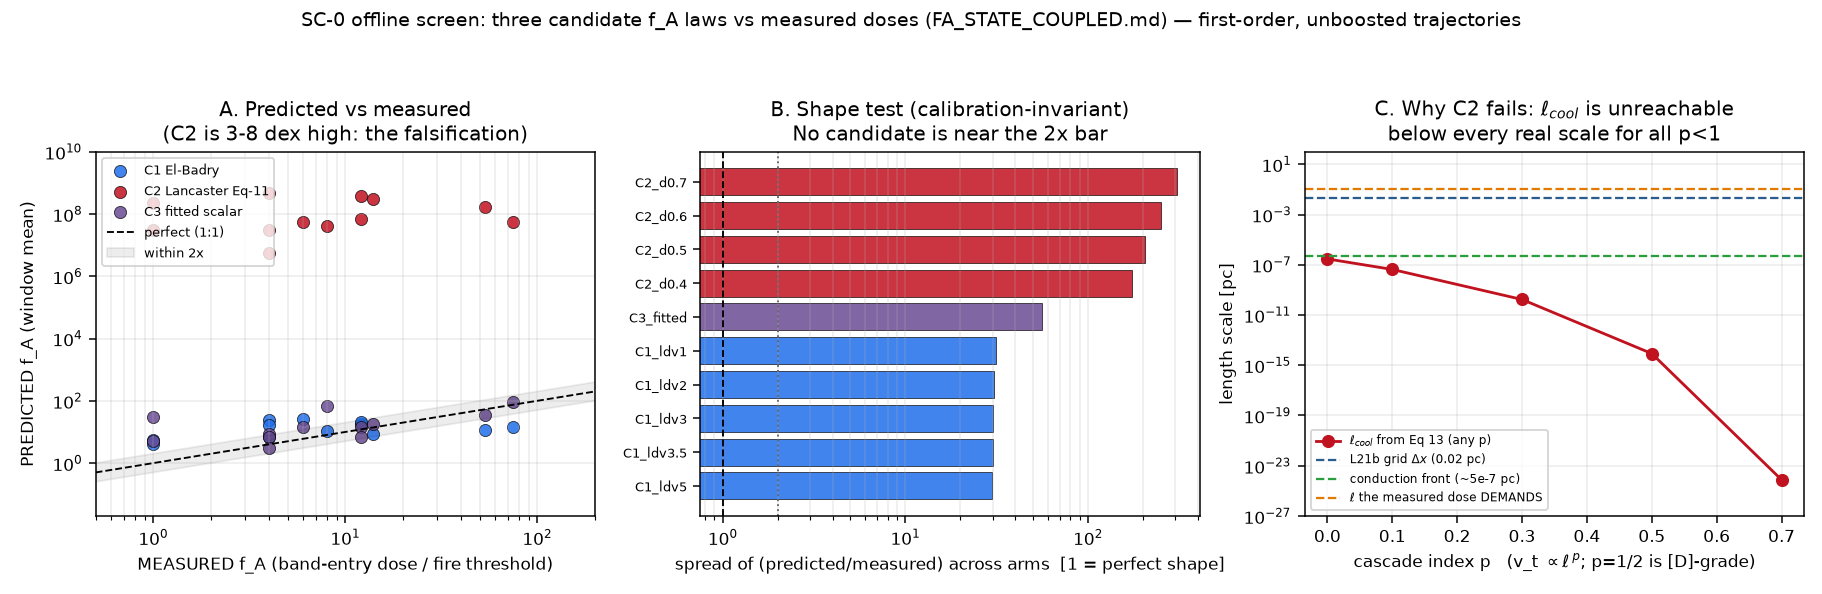
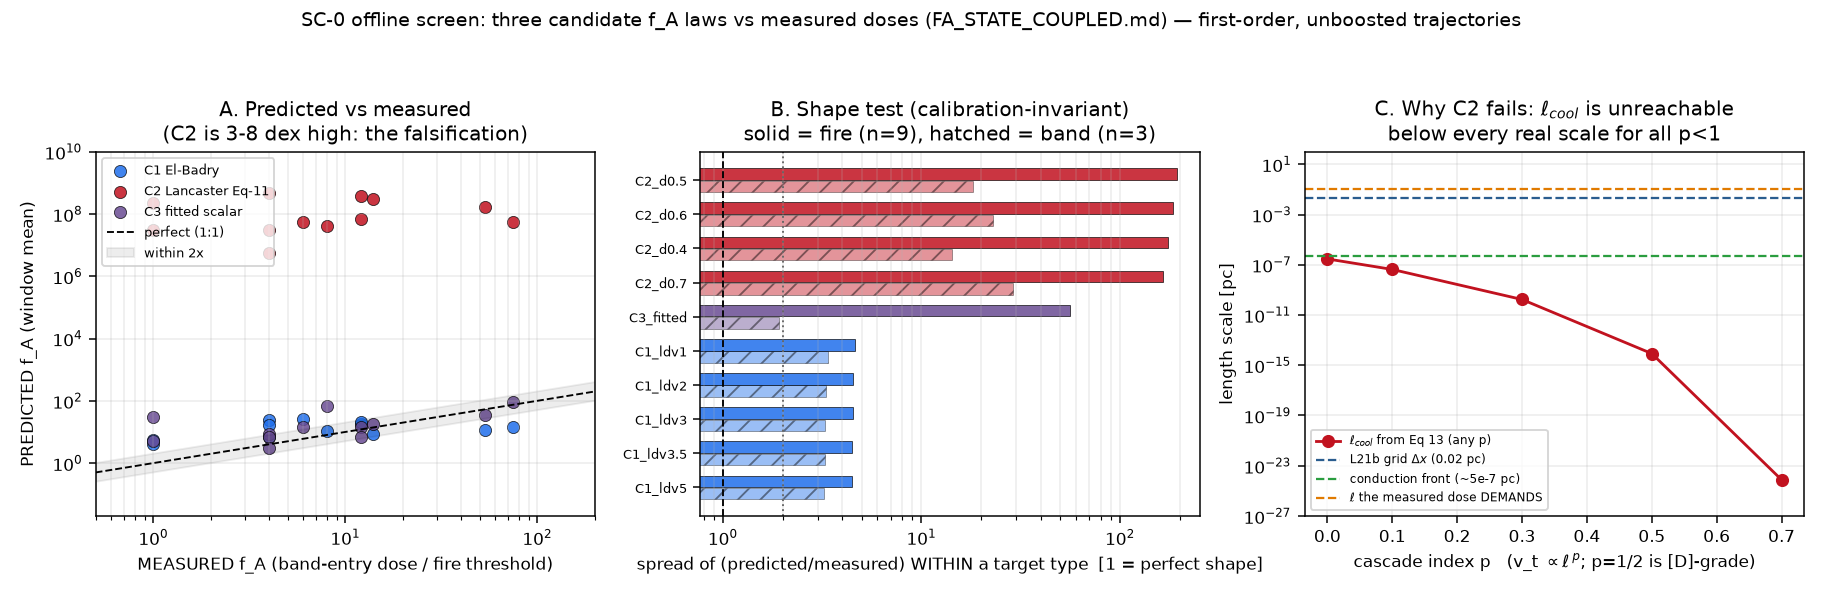
SC-0: correct the spread metric — report per-target-type, not combined
The first write-up headlined C1 as "29.9-31.3x and nearly flat". That
conflated two different target criteria: `band` (Theta_cum-in-band dose)
and `fire` (theta_max threshold). Their ~10x offset dominated the
combined max/min, so the combined number measured the gap BETWEEN
criteria rather than shape error WITHIN one.

Split by type:
  C1_ldv3   band 3.3x (n=3)   fire  4.5x (n=9)
  C3_fitted band 1.9x (n=3)   fire 56.1x (n=9)
  C2_d0.7   band 29x  (n=3)   fire  165x (n=9)

Verdict is unchanged — 3-5x still misses the pre-registered 2x bar, so
SC-0 remains FAIL — but C1 is "misses by 3-5x per criterion", not
"flat", and C3's failure to generalise is real within a single type.

- make_fa_state_screen.py: verdict block prints per-type alongside
  combined; docstring warns the two targets are different criteria.
- make_fa_state_figures.py: panel B bars split by target_kind
  (solid=fire, hatched=band) instead of plotting the combined spread.
- FINDINGS.md 15k: dated correction note.
- phase6_brief.html: C1 row corrected + correction note.

diff --git a/docs/dev/transition/pdv-trigger/phase6_brief.html b/docs/dev/transition/pdv-trigger/phase6_brief.html
@@ -108,10 +108,11 @@ C1 El-Badry:&nbsp; f_A = θ_EB(λδv, n_amb)·L<sub>mech</sub>/(L₂+L₃)&nbsp;
 C2 Lancaster Eq 11:&nbsp; f_A = α_A(R₂/ℓ_cool)<sup>d</sup>, ℓ_cool = [v_t·t_cool]²/L&nbsp;&nbsp;<span class="small">[parameter-free: α_A≈1, d∈[0.4,0.7], v_t=√(6GM/5R)]</span><br>
 C3 fitted baseline:&nbsp; f_A = 315·n̄<sup>−0.335</sup>
 </div>
+<div class="note"><b>Correction (same day):</b> the combined spread conflates two different criteria — <i>band</i> (f_A landing Θ_cum in [0.90,0.99]) and <i>fire</i> (f_A whose θ_max crosses 0.95), which are known to disagree (bench3 needs ≈16 for the band but fires at 12). Split by type, C1 scores 3.3×/4.5×; the 30× was the ~10× offset <i>between</i> criteria. C3 still fails within a single type (56× on <i>fire</i>), and C2's 2–8 dex error is unaffected. Verdict unchanged.</div>
 <p><b>Discriminator</b> = spread of (predicted / measured) across arms — calibration-invariant, so a law with the right <i>shape</i> scores ~1 even if offset (absorbable by α_A or λδv); a wrong shape scatters.</p>
 <table>
 <tr><th>candidate</th><th>spread (7 arms)</th><th>spread (3 benches only)</th><th>verdict</th></tr>
-<tr><td><b>C1</b> El-Badry</td><td><b>29.9–31.3×</b></td><td>3.2×</td><td><b>λδv-insensitive</b> (θ_EB saturates at n≳43) so it cannot be tuned; and <b>nearly flat</b> — predicts 4–25 for everything while measured doses span 1–75</td></tr>
+<tr><td><b>C1</b> El-Badry</td><td>30× combined, but <b>3.3× within <i>band</i> / 4.5× within <i>fire</i></b></td><td>3.2×</td><td><b>λδv-insensitive</b> (θ_EB saturates at n≳43) so it cannot be tuned. Tracks each criterion to 3–5× — still misses the 2× bar</td></tr>
 <tr><td><b>C2</b> Lancaster</td><td><b>174–307×</b>, and 2–8 dex too high</td><td>14–29×</td><td><b>FALSIFIED</b> — see below</td></tr>
 <tr><td><b>C3</b> fitted scalar</td><td><b>56.1×</b></td><td>1.9×</td><td><b>does NOT generalize</b> beyond its own fit points (worst: normal_n1e3, 31×)</td></tr>
 </table>

diff --git a/docs/dev/transition/pdv-trigger/data/make_fa_state_figures.py b/docs/dev/transition/pdv-trigger/data/make_fa_state_figures.py
@@ -62,22 +62,34 @@ def main():
     ax.legend(fontsize=7, loc="upper left"); ax.grid(alpha=0.25, which="both")
 
     # ---- Panel B: spread of ratio per candidate (the discriminator) ------------------------
+    # Split by target_kind: `band` (Theta_cum-in-band dose) and `fire` (theta_max threshold) are
+    # DIFFERENT criteria, so a combined spread double-counts the ~10x offset between them.
     ax = axes[1]
     keys = [k for k in rows[0] if k.startswith(("C1_", "C2_", "C3"))]
     bars = []
     for k in keys:
-        rs = [_f(r[k]) / _f(r["target"]) for r in rows if _f(r.get(k))]
-        if len(rs) >= 3:
-            bars.append((max(rs) / min(rs), k, sum(rs) / len(rs)))
+        per = {}
+        for kind in ("band", "fire"):
+            rs = [_f(r[k]) / _f(r["target"]) for r in rows
+                  if _f(r.get(k)) and r.get("target_kind") == kind]
+            if len(rs) >= 3:
+                per[kind] = max(rs) / min(rs)
+        if per:
+            bars.append((max(per.values()), k, per))
     bars.sort()
-    ys = range(len(bars))
-    ax.barh(list(ys), [b[0] for b in bars],
-            color=[COL[b[1][:2]] for b in bars], alpha=0.85, edgecolor="k", linewidth=0.4)
-    ax.set_yticks(list(ys)); ax.set_yticklabels([b[1] for b in bars], fontsize=7)
+    ys = list(range(len(bars)))
+    for i, (_worst, k, per) in enumerate(bars):
+        for j, kind in enumerate(("band", "fire")):
+            if kind in per:
+                ax.barh(i + (j - 0.5) * 0.36, per[kind], height=0.34, color=COL[k[:2]],
+                        alpha=0.85 if kind == "fire" else 0.45, edgecolor="k", linewidth=0.4,
+                        hatch="" if kind == "fire" else "//")
+    ax.set_yticks(ys); ax.set_yticklabels([b[1] for b in bars], fontsize=7)
     ax.axvline(1, color="k", ls="--", lw=1)
     ax.axvline(2, color="0.4", ls=":", lw=1)
-    ax.set_xscale("log"); ax.set_xlabel("spread of (predicted/measured) across arms  [1 = perfect shape]")
-    ax.set_title("B. Shape test (calibration-invariant)\nNo candidate is near the 2x bar")
+    ax.set_xscale("log")
+    ax.set_xlabel("spread of (predicted/measured) WITHIN a target type  [1 = perfect shape]")
+    ax.set_title("B. Shape test (calibration-invariant)\nsolid = fire (n=9), hatched = band (n=3)")
     ax.grid(alpha=0.25, axis="x", which="both")
 
     # ---- Panel C: why C2 dies -- l_cool vs every real scale --------------------------------

diff --git a/docs/dev/transition/pdv-trigger/data/make_fa_state_screen.py b/docs/dev/transition/pdv-trigger/data/make_fa_state_screen.py
@@ -25,6 +25,11 @@ SCORE.  Per arm: the luminosity-weighted mean of the candidate over the accepted
 robustness check. Then ratio = predicted / measured-target. The DISCRIMINATOR is the max/min SPREAD
 of that ratio across arms: it is calibration-invariant, so a law with the right SHAPE gives a
 constant ratio even if offset (absorbable by alpha_A or lambda_dv), while a wrong shape scatters.
+⚠ REPORT IT PER TARGET TYPE. 'band' (the f_A that lands Theta_cum in [0.90,0.99]) and 'fire' (the
+f_A whose theta_max crosses 0.95) are DIFFERENT criteria and are known to disagree (FINDINGS §15j:
+bench3 needs ~16 for the band but fires at 12). A combined spread conflates them and inflates the
+number -- e.g. C1 is 3.3x within 'band' and 4.5x within 'fire' but 30x combined, because the two
+criteria sit ~10x apart. The per-type spreads are the meaningful test of a law's shape.
 
 TARGETS.  Band-entry dose for the clean-blowout benches (FINDINGS §15j) and the measured fire
 threshold f_fire for the theta5s configs (data/theta5s_fire_map.csv, HPC-confirmed §15e). The two
@@ -246,8 +251,16 @@ def main():
         spread = hi[0] / lo[0] if lo[0] > 0 else float("inf")
         best.append((spread, key, len(rs), lo, hi))
     for spread, key, n, lo, hi in sorted(best):
-        print(f"  {key:14s} n={n:2d}  spread={spread:8.2f}x   min {lo[0]:.3g} ({lo[1][:22]})"
-              f"  max {hi[0]:.3g} ({hi[1][:22]})")
+        # per-target-type spread: 'band' (Theta_cum in-band dose) and 'fire' (theta_max threshold)
+        # are DIFFERENT criteria, so a combined spread conflates them -- report both.
+        per = []
+        for kind in ("band", "fire"):
+            rr = [float(r[key]) / r["target"] for r in scored
+                  if r.get(key) and r.get("target_kind") == kind]
+            if len(rr) >= 2:
+                per.append(f"{kind} {max(rr)/min(rr):.1f}x")
+        print(f"  {key:14s} n={n:2d}  combined={spread:8.2f}x  [{', '.join(per) or '-'}]"
+              f"   min {lo[0]:.3g} ({lo[1][:20]})  max {hi[0]:.3g} ({hi[1][:20]})")
     if best:
         s, key, *_ = sorted(best)[0]
         print(f"\nbest-shape candidate: {key} (spread {s:.2f}x). C3 baseline to beat is the C3_fitted row.")

diff --git a/docs/dev/transition/pdv-trigger/FINDINGS.md b/docs/dev/transition/pdv-trigger/FINDINGS.md
@@ -1773,9 +1773,19 @@ control has essentially no interface cooling, itself consistent with never firin
 
 | candidate | spread, 12 arms | spread, 3 benches | note |
 |---|---|---|---|
-| C1 El-Badry `θ_EB·L_mech/(L₂+L₃)` | **29.9–31.3×** | 3.2× | **λδv-insensitive** (θ_EB saturates at n≳43) ⇒ cannot be tuned. **Nearly FLAT: predicts 4–25 for everything while the measured doses span 1–75** — it does not reproduce the dynamic range at all |
+| C1 El-Badry `θ_EB·L_mech/(L₂+L₃)` | 30× combined, but **3.3× within `band` / 4.5× within `fire`** | 3.2× | **λδv-insensitive** (θ_EB saturates at n≳43) ⇒ cannot be tuned. Tracks each criterion to 3–5×, still missing the 2× bar |
 | C2 Lancaster Eq 11 (parameter-free) | **174–307×**, and 2–8 dex too high | 14–29× | **FALSIFIED** |
-| C3 fitted scalar `315·n̄^−0.335` | **56.1×** | 1.9× | **fails to generalize** off its own fit points (worst: `normal_n1e3` 31×) |
+| C3 fitted scalar `315·n̄^−0.335` | **56.1×** (and 56× within `fire` alone) | 1.9× | **fails to generalize** off its own fit points (worst: `normal_n1e3` 31×) |
+
+> ⚠ **Correction 2026-07-25 (same day):** the first write-up of this section headlined C1 as "29.9–31.3×
+> and nearly flat". That **conflated two different target criteria**. The `band` targets (f_A that lands
+> Θ_cum in [0.90,0.99]) and the `fire` targets (f_A whose θ_max crosses 0.95) are known to disagree —
+> `§15j` already recorded bench3 needing ≈16 for the band while firing at 12. Split by type, **C1's
+> spread is 3.3× (band, n=3) and 4.5× (fire, n=9)**; the 30× came from the ~10× systematic offset
+> BETWEEN the two criteria, not from C1 scattering. C3 by contrast fails *within* a single type (56×
+> on `fire` alone), and C2's 2–8 dex magnitude error is unaffected either way. The verdict below is
+> unchanged — 3–5× still misses the 2× bar — but C1 is "misses by 3–5× per criterion", NOT "flat".
+> The screen now reports per-type spreads.
 
 **⇒ SC-0 VERDICT: FAIL, exactly as pre-registered.** The plan's rule ("neither derived form derives the
 curve ⇒ stop, record the spreads, the fitted f_A(n̄) remains the honest shipped result — **no production
